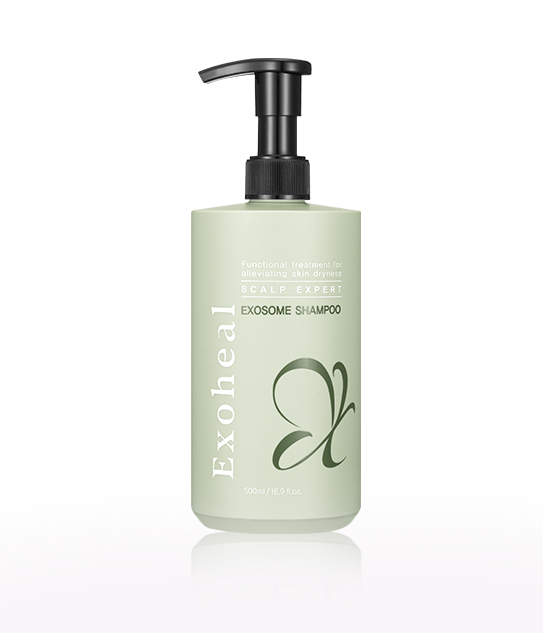
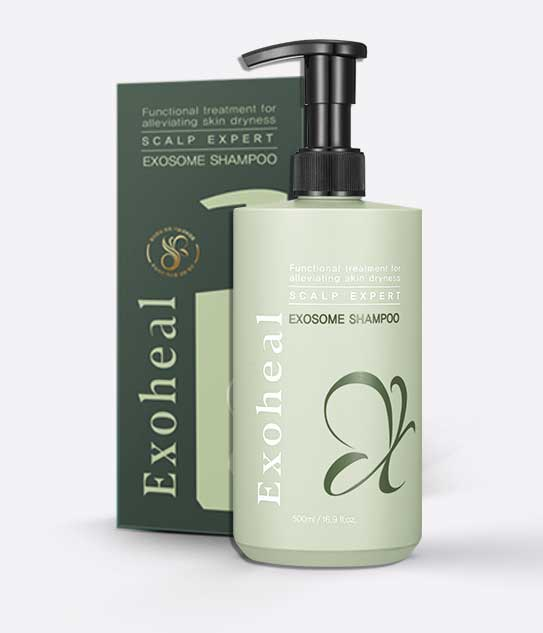
메인롤링배너 오타수정 및 상품썸네일 재변경

diff --git a/index.html b/index.html
@@ -250,7 +250,7 @@
                             </p>
                             <p class="slide-description" style="letter-spacing: 0;">
                                 투명하고 맑은 점액상의 포뮬라로 두피에 딥클린징과 <br />
-                                모발에 영야을 효과적으로 전달해 줍니다.
+                                모발에 영양을 효과적으로 전달해 줍니다.
                             </p>
                             <div class="link-wrap">
                                 <a href="/product-detail.html">
